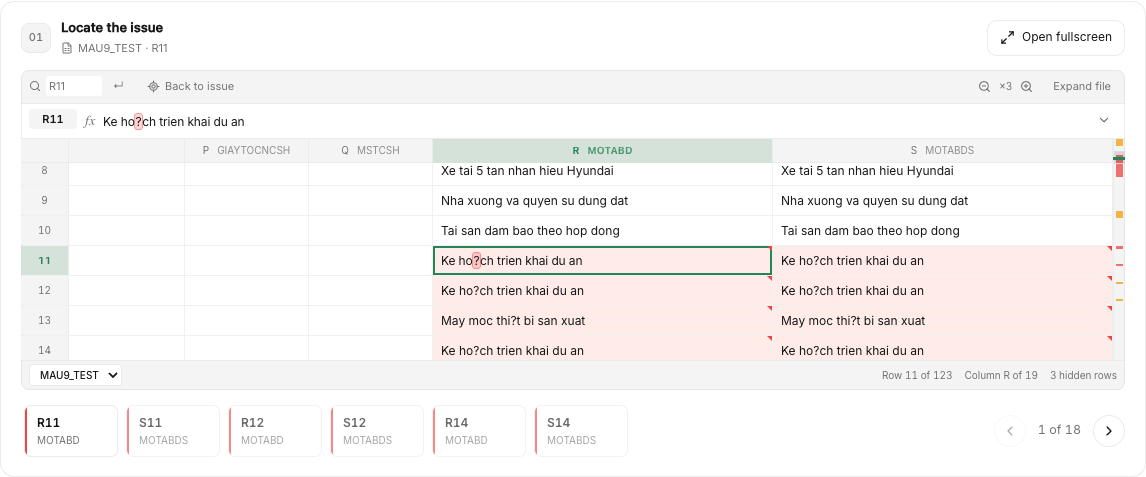
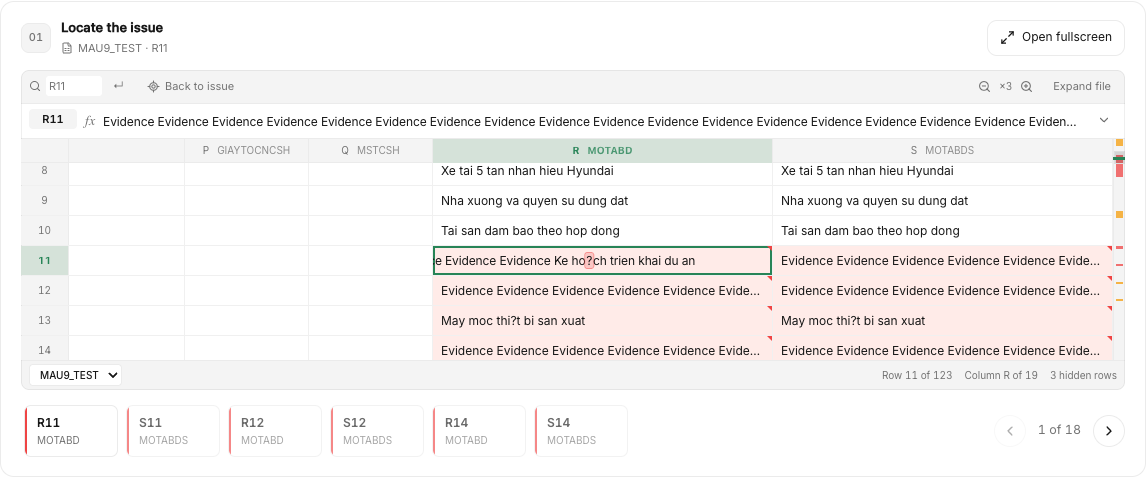
updated documentation field

diff --git a/src/components/sites/collateral/excel-formation/gallery/SheetViewer.tsx b/src/components/sites/collateral/excel-formation/gallery/SheetViewer.tsx
@@ -104,6 +104,7 @@ function SheetSurface({ data, target, mode, lens, sheetPicker, busy, failed, onR
   }
   const [expanded, setExpanded] = useState(false), [address, setAddress] = useState("");
   const [badAddress, setBadAddress] = useState(false), [zoom, setZoom] = useState(2);
+  const [focusOffset, setFocusOffset] = useState(0);
   const [hover, setHover] = useState<{ row: number; col: number; x: number; y: number } | null>(null);
   const [lensOn, setLensOn] = useState(false);
   const timer = useRef<ReturnType<typeof setTimeout> | null>(null);
@@ -134,6 +135,20 @@ function SheetSurface({ data, target, mode, lens, sheetPicker, busy, failed, onR
   const actual = previewing ? target.value : selectedRow ? selectedRow.values[selection.col] ?? "" : undefined;
   const marks = selection.row === target.row && selection.col === target.col && actual === target.value ? target.marks : undefined;
   const selectedRef = `${meta.columns[selection.col]?.letter ?? "A"}${selection.row}`;
+  // Long descriptions can have their first damaged character beyond the clipped column. Measure the
+  // actual rendered mark and pan only its text, keeping the cell geometry and source value intact.
+  const hasMarks = !!target.marks?.length;
+  useLayoutEffect(() => {
+    const cell = body.current?.querySelector<HTMLElement>(`.sv-cell[data-row="${target.row}"][data-col="${target.col}"]`);
+    const mark = cell?.querySelector<HTMLElement>(".cg-mark, .cg-glyph");
+    const bounds = body.current?.getBoundingClientRect(), rect = cell?.getBoundingClientRect();
+    const middle = bounds && rect ? (Math.max(rect.left, bounds.left + GUTTER) + Math.min(rect.right, bounds.right - 12)) / 2 - rect.left : 0;
+    const next = hasMarks && cell && mark && rect ? Math.max(0, mark.getBoundingClientRect().left - rect.left + focusOffset - middle) : 0;
+    if (body.current) body.current.dataset.focusDebug = JSON.stringify({ next, focusOffset, hasMarks, mark: !!mark, middle });
+    if (Math.abs(next - focusOffset) < 1) return;
+    const frame = requestAnimationFrame(() => setFocusOffset(next));
+    return () => cancelAnimationFrame(frame);
+  }, [target.row, target.col, target.value, hasMarks, rows, widths, focusOffset, scroll.x]);
   const px = useMotionValue(0), py = useMotionValue(0);
   const sx = useSpring(px, LENS_SPRING), sy = useSpring(py, LENS_SPRING);
   const diameter = Math.min(lens, Math.max(76, size.w - 18), Math.max(76, size.h - 38));
@@ -145,9 +160,11 @@ function SheetSurface({ data, target, mode, lens, sheetPicker, busy, failed, onR
   }, [px, py, sx, sy, lensOn, reduce]);
   const spotlight = useRef("");
   useEffect(() => {
-    const id = `${target.row}:${target.col}:${data.epoch}:${mode}`;
+    const id = `${target.row}:${target.col}:${data.epoch}:${mode}:${focusOffset}`;
     if (spotlight.current === id || !rows.has(target.row) || !body.current || !matchMedia("(hover: hover)").matches) return;
-    const x = Math.max(GUTTER + 10, Math.min(size.w - 24, GUTTER + lefts[target.col] - scroll.x + Math.min(widths[target.col] - 16, 10 + (target.marks?.[0]?.start ?? 0) * 7)));
+    const mark = body.current.querySelector<HTMLElement>(`.sv-cell[data-row="${target.row}"][data-col="${target.col}"] .cg-mark, .sv-cell[data-row="${target.row}"][data-col="${target.col}"] .cg-glyph`);
+    const markX = mark ? mark.getBoundingClientRect().left - body.current.getBoundingClientRect().left + mark.clientWidth / 2 : GUTTER + lefts[target.col] - scroll.x + 12;
+    const x = Math.max(GUTTER + 10, Math.min(size.w - 24, markX));
     const y = HEAD + (target.row - meta.firstRow) * ROW - scroll.y + ROW / 2;
     if (y < HEAD || y > size.h - 12) return;
     const frame = requestAnimationFrame(() => {
@@ -156,7 +173,7 @@ function SheetSurface({ data, target, mode, lens, sheetPicker, busy, failed, onR
       timer.current = setTimeout(() => setLensOn(false), 1600);
     });
     return () => cancelAnimationFrame(frame);
-  }, [target, data.epoch, mode, rows, size, lefts, widths, scroll, meta.firstRow, point]);
+  }, [target, data.epoch, mode, rows, size, lefts, widths, scroll, meta.firstRow, point, focusOffset]);
   function locate(event: PointerEvent<HTMLDivElement> | MouseEvent<HTMLDivElement>) {
     const rect = body.current?.getBoundingClientRect();
     if (!rect) return null;
@@ -243,7 +260,7 @@ function SheetSurface({ data, target, mode, lens, sheetPicker, busy, failed, onR
           {shownRows.map(r => { const row = rows.get(r); return <div key={r} role="row" aria-rowindex={r} className="sv-row" data-loaded={!!row || undefined} data-target={r === selection.row || undefined} data-hidden={row?.hidden || undefined} data-header={row?.header || undefined} style={{ top: HEAD + (r - meta.firstRow) * ROW, height: ROW, width: GUTTER + totalW }}>
             <span className="sv-rn" role="rowheader" data-hidden={row?.hidden || undefined} style={{ width: GUTTER }}>{r}</span>
             {columns.map(col => { const value = target.preview && r === target.row && col.col === target.col ? target.value : row?.values[col.col] ?? "", selected = r === selection.row && col.col === selection.col, level = data.issueCells.get(r)?.get(col.col); return <span key={col.col} role="gridcell" aria-colindex={col.col + 1} aria-selected={selected} className="sv-cell" data-row={r} data-col={col.col} data-level={level || undefined} data-target={selected || undefined} data-empty={!value || undefined} style={{ left: GUTTER + lefts[col.col], width: widths[col.col] }}>
-              {r === target.row && col.col === target.col && value === target.value ? <Specimen value={value} marks={target.marks} empty="" /> : value}
+              {r === target.row && col.col === target.col && value === target.value ? <span className="sv-target-text" style={{ translate: `${-focusOffset}px 0` }}><Specimen value={value} marks={target.marks} empty="" /></span> : value}
             </span>; })}
           </div>; })}
         </div>
@@ -258,7 +275,7 @@ function SheetSurface({ data, target, mode, lens, sheetPicker, busy, failed, onR
       {busy && <span className="sv-pending" role="status">{t("Loading worksheet…")}</span>}
       {lensOn && hover && <motion.div className="sv-lens" aria-hidden="true" style={{ x: lx, y: ly, width: diameter, height: diameter, marginLeft: -diameter / 2, marginTop: -diameter / 2 }}>
         <div className="sv-lens__disc"><div className="sv-lens__inner" style={{ left: diameter / 2 - (gx - lefts[lensCol0]) * zoom, top: diameter / 2 - (gy - (lensRow0 - 1) * ROW) * zoom }}>
-          {lensRows.flatMap(r => lensCols.map(col => { const value = target.preview && r === target.row && col.col === target.col ? target.value : rows.get(r)?.values[col.col] ?? ""; return <span key={`${r}:${col.col}`} className="sv-lcell" data-level={data.issueCells.get(r)?.get(col.col) || undefined} data-target={r === selection.row && col.col === selection.col || undefined} style={{ left: (lefts[col.col] - lefts[lensCol0]) * zoom, top: (r - lensRow0) * ROW * zoom, width: widths[col.col] * zoom, height: ROW * zoom, fontSize: 12 * zoom }}><Specimen value={value} marks={r === target.row && col.col === target.col && value === target.value ? target.marks : undefined} lens empty="" /></span>; }))}
+          {lensRows.flatMap(r => lensCols.map(col => { const value = target.preview && r === target.row && col.col === target.col ? target.value : rows.get(r)?.values[col.col] ?? "", isIssue = r === target.row && col.col === target.col && value === target.value; return <span key={`${r}:${col.col}`} className="sv-lcell" data-level={data.issueCells.get(r)?.get(col.col) || undefined} data-target={r === selection.row && col.col === selection.col || undefined} style={{ left: (lefts[col.col] - lefts[lensCol0]) * zoom, top: (r - lensRow0) * ROW * zoom, width: widths[col.col] * zoom, height: ROW * zoom, fontSize: 12 * zoom }}><span className="sv-target-text" style={{ translate: `${isIssue ? -focusOffset * zoom : 0}px 0` }}><Specimen value={value} marks={isIssue ? target.marks : undefined} lens empty="" /></span></span>; }))}
         </div></div>
         <span className="sv-lens__label">{meta.columns[hover.col]?.letter}{hover.row} · ×{zoom}</span>
       </motion.div>}

diff --git a/src/components/sites/collateral/excel-formation/gallery/speculative-run.css b/src/components/sites/collateral/excel-formation/gallery/speculative-run.css
@@ -5,10 +5,11 @@
   --sdr-label: 120px; --sdr-row: 32px; --ease-enter: cubic-bezier(0.16, 1, 0.3, 1); --ease-standard: cubic-bezier(0.22, 1, 0.36, 1); --dur-fast: 160ms; --dur-std: 240ms;
   display: grid; min-width: 0; gap: 20px; padding: 18px; border-top: 1px solid var(--line); background: var(--card); color: var(--ink); font-size: 13px; line-height: 1.5;
   /* What moves in here never makes the rest of the page recalculate its style or layout. */
-  contain: layout style;
+  container: sdr / inline-size;
 }
 :where(.dark, [data-theme="dark"]) .collateral .sdr { --sdr-draft: color-mix(in oklab, oklch(0.62 0.2 295) 72%, var(--ink)); --sdr-target: oklch(0.7 0.14 255); --sdr-success: #4ade80; --sdr-amber: #fbbf24; --sdr-danger: #f87171; }
 .collateral .sdr[data-closed] { padding-block: 10px; }
+.collateral .sdr-note { margin: -4px 0 0; color: var(--muted); font-size: 11.5px; line-height: 1.45; }
 .collateral .sdr-header { display: flex; align-items: flex-start; justify-content: space-between; gap: 16px; min-width: 0; }
 .collateral .sdr-heading { display: grid; gap: 2px; min-width: 0; }
 .collateral .sdr-title { display: inline-flex; align-items: center; gap: 6px; margin: 0; padding: 0; border: 0; background: none; color: var(--ink); font: inherit; font-size: 13px; font-weight: 600; line-height: 1.35; cursor: pointer; text-align: left; }
@@ -134,6 +135,20 @@
 .collateral .sdr-strip > span { display: block; height: 1.2em; line-height: 1.2em; text-align: center; }
 .collateral .sdr-numberSuffix { color: var(--muted); }
 
+/* The table of words moves the way the replay does: same easing, same 160 ms. */
+.collateral .sd-card { --ease-enter: cubic-bezier(0.16, 1, 0.3, 1); --ease-standard: cubic-bezier(0.22, 1, 0.36, 1); --dur-fast: 160ms; }
+.collateral .sd-alt, .collateral .sd-keep { transition: background-color var(--dur-fast) var(--ease-standard), border-color var(--dur-fast) var(--ease-standard), color var(--dur-fast) var(--ease-standard), transform 100ms var(--ease-standard); }
+.collateral .sd-alt:active, .collateral .sd-keep:active { transform: scale(0.96); }
+.collateral .sd-alt[aria-pressed="true"] svg { animation: sdr-pop var(--dur-fast) var(--ease-enter) backwards; }
+@keyframes sdr-pop { 0% { opacity: 0; transform: scale(0.5); } }
+.collateral .sd-flag { transition: color var(--dur-fast) var(--ease-standard); }
+.collateral .sd-evidence small { animation: sdr-fade 240ms var(--ease-enter) backwards; }
+.collateral .sd-words > .sd-wordrow { animation: sdr-in 140ms var(--ease-enter) backwards; }
+.collateral .sd-words > .sd-wordrow:nth-child(2) { animation-delay: 30ms; }
+.collateral .sd-words > .sd-wordrow:nth-child(3) { animation-delay: 60ms; }
+.collateral .sd-words > .sd-wordrow:nth-child(4) { animation-delay: 90ms; }
+.collateral .sd-words > .sd-wordrow:nth-child(n+5) { animation-delay: 120ms; }
+
 /* Linking the replay with the table below it */
 .collateral .sd-wordrow { transition: background-color var(--dur-fast) var(--ease-standard); }
 .collateral .sd-wordrow[data-hot] { background: var(--tray); }
@@ -142,8 +157,7 @@
 .collateral .sd-keys { display: flex; flex-wrap: wrap; gap: 4px 12px; margin: 0; padding: 8px 18px 0; color: var(--muted); font-size: 11.5px; }
 .collateral .sd-keys kbd { padding: 0 5px; border-radius: 4px; background: var(--chip); font: inherit; font-size: 11px; box-shadow: inset 0 0 0 1px var(--line); }
 
-@container (max-width: 560px) {
-  .collateral .sdr { gap: 16px; padding: 12px; }
+@container sdr (max-width: 560px) {
   .collateral .sdr-status { min-height: 3em; }
   .collateral .sdr-lanes { grid-template-columns: minmax(0, 1fr); row-gap: 12px; }
   .collateral .sdr-laneLabels { display: flex; flex-wrap: wrap; gap: 4px 16px; }
@@ -156,7 +170,8 @@
   .collateral .sdr-sliderSlot { flex-basis: 100%; max-width: none; }
 }
 @media (prefers-reduced-motion: reduce) {
-  .collateral .sdr-column, .collateral .sdr-summary, .collateral .sd-wordrow[data-flash] { animation: none; }
+  .collateral .sdr-column, .collateral .sdr-summary, .collateral .sd-wordrow[data-flash], .collateral .sd-words > .sd-wordrow, .collateral .sd-alt[aria-pressed="true"] svg, .collateral .sd-evidence small { animation: none; }
+  .collateral .sd-alt, .collateral .sd-keep { transition: none; }
   .collateral .sdr-cellContent, .collateral .sdr-cellContent[data-on], .collateral .sdr-chip::after, .collateral .sdr-chip::before, .collateral .sdr-iconStack > svg, .collateral .sdr-iconStack > svg[data-on], .collateral .sdr-strike, .collateral .sdr-strip, .collateral .sdr-wheelSlot { transition: none; }
   .collateral .sdr-tok { transition: opacity 120ms linear; }
 }

diff --git a/src/components/sites/collateral/excel-formation/gallery/sheet-viewer.css b/src/components/sites/collateral/excel-formation/gallery/sheet-viewer.css
@@ -31,6 +31,7 @@
 .sv-rn[data-hidden]::after { content: ""; position: absolute; bottom: 2px; width: 10px; border-bottom: 1px dashed var(--muted); }
 .sv-cell { position: absolute; top: 0; height: 100%; min-width: 0; overflow: hidden; padding: 6px 8px; border-right: 1px solid var(--line-soft); display: block; white-space: nowrap; text-overflow: ellipsis; color: var(--ink); font-size: 12px; line-height: 17px; }
 .sv-cell .cg-specimen { display: inline; max-height: none; font-size: inherit; line-height: inherit; font-weight: 400; white-space: nowrap; overflow: visible; }
+.sv-target-text { display: inline-block; flex: none; }
 .sv-row[data-header] .sv-cell { background: var(--tray); font-weight: 600; }
 .sv-cell[data-level] { background: color-mix(in oklab, #f59e0b 13%, var(--card)); }
 .sv-cell[data-level="3"], .sv-cell[data-level="4"] { background: color-mix(in oklab, #ef4444 12%, var(--card)); }

diff --git a/src/components/sites/collateral/excel-formation/gallery/SpeculativeRun.tsx b/src/components/sites/collateral/excel-formation/gallery/SpeculativeRun.tsx
@@ -252,6 +252,7 @@ function Replay({ predictions, picks, draftLength, compare, onRestart, onClose }
         <div className="sdr-stat"><dt className="sdr-statLabel">{t("Drafts accepted")}</dt><dd className="sdr-statValue"><RollingNumber value={acceptedPercent} intDigits={3} suffix="%" label={t("{0} percent", [acceptedPercent ?? 0])} /></dd></div>
         <div className="sdr-stat"><dt className="sdr-statLabel">{t("Words per check")}</dt><dd className="sdr-statValue"><RollingNumber value={perCheck} decimals={1} intDigits={2} label={number(perCheck ?? 0)} /></dd></div>
       </dl>
+      <p className="sdr-note">{t("These numbers describe the replay: how often the quick guess matched the careful check. They do not say whether a word is right; the table and your approval do.")}</p>
     </div>
   </>;
 }

diff --git a/src/components/sites/i18n/vi-credit.ts b/src/components/sites/i18n/vi-credit.ts
@@ -419,4 +419,5 @@ choose a word	chọn từ
 move between words	chuyển giữa các từ
 Click a word in the answer to jump to it	Bấm một từ trong kết quả để nhảy tới hàng của nó
 Checks made	Số lượt kiểm tra
+These numbers describe the replay: how often the quick guess matched the careful check. They do not say whether a word is right; the table and your approval do.	Các con số này mô tả lần phát lại: bản đoán nhanh khớp bản kiểm tra kỹ bao nhiêu lần. Chúng không cho biết một từ có đúng hay không; bảng bên dưới và sự duyệt của bạn mới quyết định.
 `);
